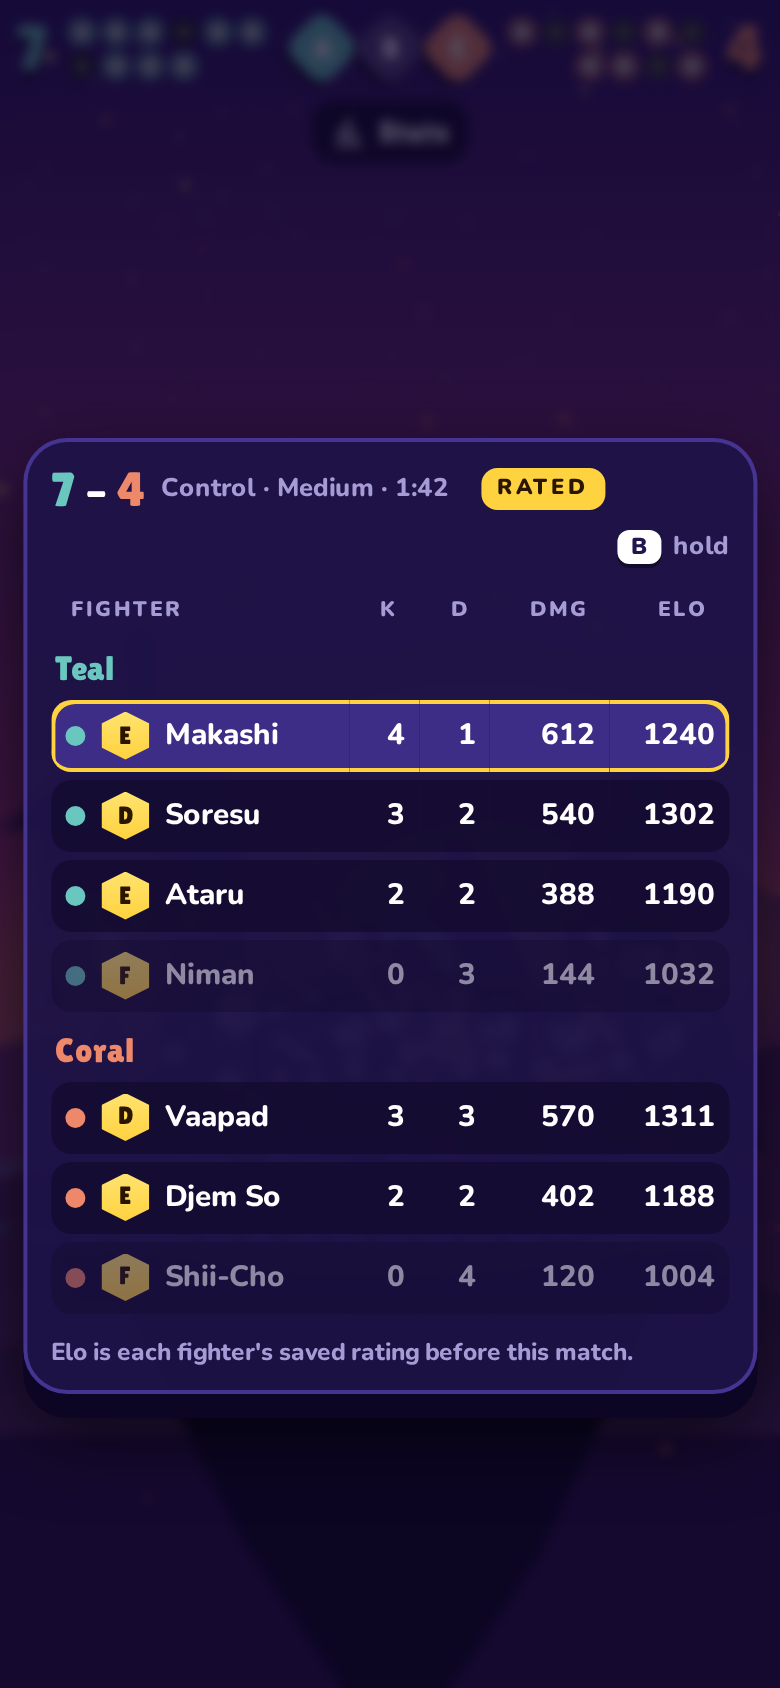
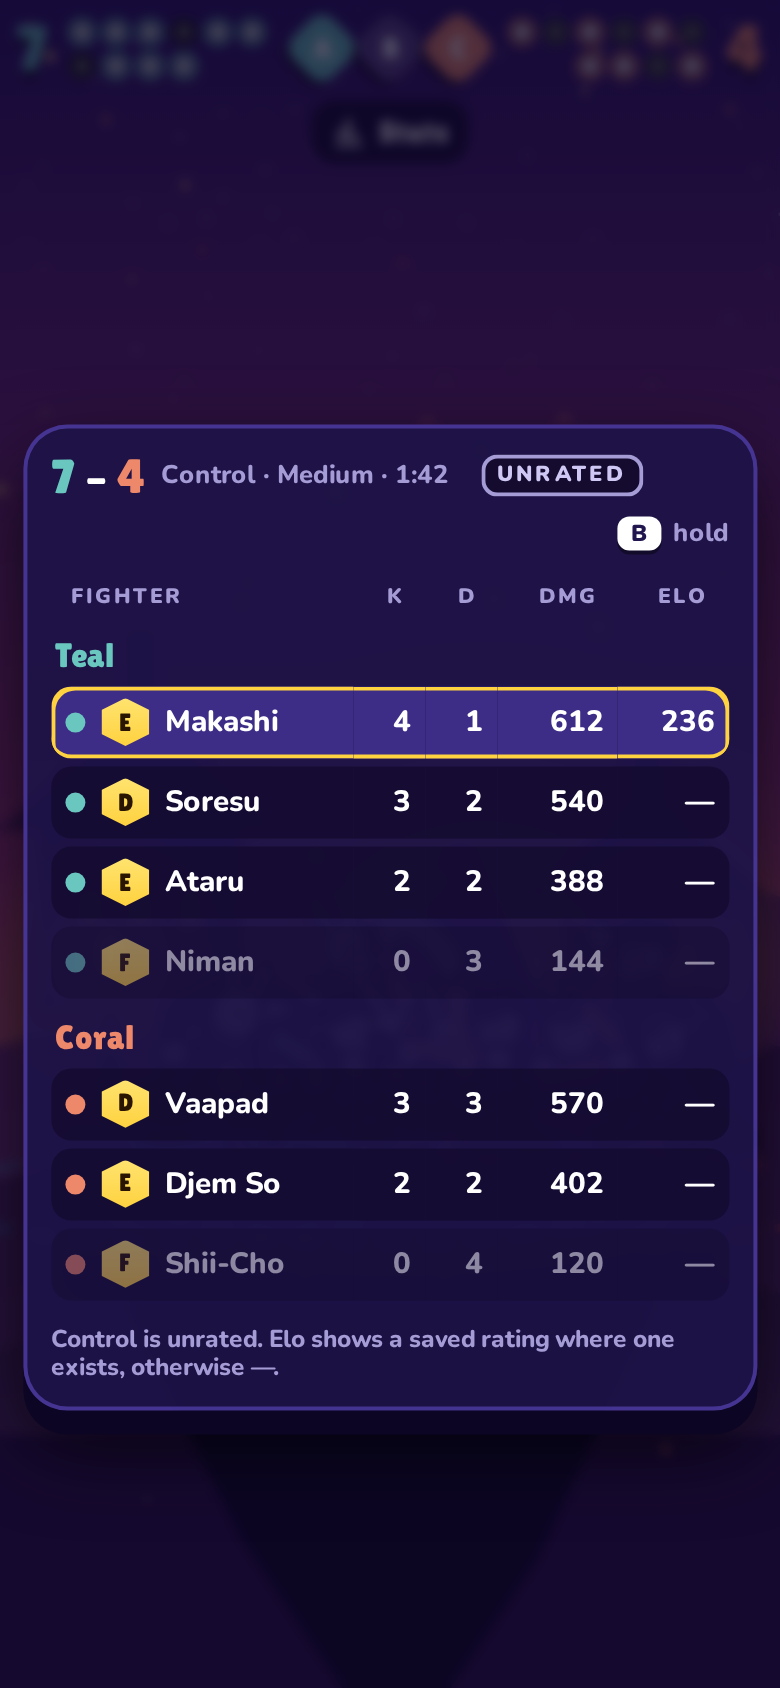
Use real ratings and recorded stats in scoreboard and results
Control shown as unrated, Elo on the 100 per rank scale or a dash,
kills and deaths apart, parries kept, saber hits and swings as two
numbers instead of an accuracy percent. Duel tag reads Rated.

diff --git a/docs/v5-look/screens.html b/docs/v5-look/screens.html
@@ -233,6 +233,7 @@ table.sb{width:100%;border-collapse:separate;border-spacing:0 4px;font-size:.92r
 #results .unr,#results .r-unr{display:none}
 #results.unrated .unr{display:inline-block}#results.unrated .r-unr{display:block}
 #results.unrated .rated,#results.unrated .r-rated{display:none}
+.hits{display:flex;gap:18px;justify-content:center;margin-top:10px;font:800 .85rem/1 var(--ui);color:#a59cd6}.hits b{font:400 1.1rem/1 var(--display);color:#fff;margin-left:4px}
 .savedtag{font:900 .78rem/1 var(--ui);color:var(--mint)}
 .bfoot{margin-top:8px;font-size:.76rem}.bhead .sc{white-space:nowrap}@media (max-width:600px){.bhead{flex-wrap:wrap;gap:8px}.bhead .muted{font-size:.8rem}}
 .statsbtn{position:absolute;top:84px;left:50%;transform:translateX(-50%);display:flex;align-items:center;gap:6px;border:0;border-radius:12px;padding:7px 10px;background:#0c0624cc;color:#fff;font:400 .95rem/1 var(--display);pointer-events:auto}
@@ -251,7 +252,7 @@ table.sb{width:100%;border-collapse:separate;border-spacing:0 4px;font-size:.92r
     <a class="pcard" href="#stats" title="Your stats">
       <span class="avatar"></span>
       <div class="who"><b>Makashi</b><span>Woman · Djem So</span></div>
-      <div class="pstats"><div><span class="rk sm">E</span></div><div><b>1258</b><span>ELO</span></div><div><b>1.42</b><span>K/D</span></div><div><b>58%</b><span>WIN</span></div></div>
+      <div class="pstats"><div><span class="rk sm">E</span></div><div><b>245</b><span>ELO</span></div><div><b>1.42</b><span>K/D</span></div><div><b>58%</b><span>WIN</span></div></div>
     </a>
   </div>
   <div class="hub">
@@ -274,11 +275,11 @@ table.sb{width:100%;border-collapse:separate;border-spacing:0 4px;font-size:.92r
 <!-- MODE SELECT -->
 <section class="scr" id="modes" hidden>
   <div class="top"><button class="back"><svg viewBox="0 0 24 24"><path d="M15 4 7 12l8 8" stroke="#fff" stroke-width="3.5" fill="none" stroke-linecap="round" stroke-linejoin="round"/></svg></button><div class="title">Play</div>
-    <a class="pcard"><span class="avatar"></span><div class="pstats"><div><span class="rk sm">E</span></div><div><b>1258</b><span>ELO</span></div><div><b>1.42</b><span>K/D</span></div></div></a></div>
+    <a class="pcard"><span class="avatar"></span><div class="pstats"><div><span class="rk sm">E</span></div><div><b>245</b><span>ELO</span></div><div><b>1.42</b><span>K/D</span></div></div></a></div>
   <div class="modes">
     <div class="mlist">
-      <div class="mrow"><canvas data-art="duel"></canvas><div><b>Duel</b><span>1v1 · Ranked</span></div><em>1258</em></div>
-      <div class="mrow on"><canvas data-art="squad"></canvas><div><b>Squads</b><span>Team · up to 15v15</span></div><em>1231</em></div>
+      <div class="mrow"><canvas data-art="duel"></canvas><div><b>Duel</b><span>1v1 · Rated</span></div><em>245</em></div>
+      <div class="mrow on"><canvas data-art="squad"></canvas><div><b>Squads</b><span>Team · up to 15v15</span></div><em></em></div>
       <div class="phoneopts glass">
         <div><p class="lab">RULES</p><div class="chips"><button class="chip">Elimination</button><button class="chip on">Control</button><button class="chip">Relic</button></div></div>
         <div><p class="lab">MAP</p><div class="chips"><button class="chip">Small</button><button class="chip on">Medium</button><button class="chip">Large</button></div></div>
@@ -295,7 +296,7 @@ table.sb{width:100%;border-collapse:separate;border-spacing:0 4px;font-size:.92r
         <div><p class="lab">PLAY AS</p><div class="chips"><button class="chip on">Fighter</button><button class="chip">Commander</button><button class="chip">Watch</button></div></div>
         <div><p class="lab">ROUND</p><div class="chips"><button class="chip">45</button><button class="chip on">90</button><button class="chip">150</button></div></div>
       </div>
-      <div class="mgo"><button class="btn gold">▶ Play</button><button class="btn ghost">Loadout</button><div class="rec"><b>41W · 29L</b><br>K/D 1.31 in Squads</div></div>
+      <div class="mgo"><button class="btn gold">▶ Play</button><button class="btn ghost">Loadout</button><div class="rec"><b>41W · 29L</b><br>in Squads</div></div>
     </div>
   </div>
   <div class="phonego"><button class="btn ghost">Loadout</button><button class="btn">▶ Play</button></div>
@@ -363,20 +364,20 @@ table.sb{width:100%;border-collapse:separate;border-spacing:0 4px;font-size:.92r
 <section id="board" hidden>
   <div class="dim"></div>
   <div class="board glass">
-    <div class="bhead"><div class="sc"><span class="b">7</span> – <span class="r">4</span></div><span class="muted">Control · Medium · 1:42</span><span class="rated">RATED</span><span class="hint" style="margin-left:auto"><kbd>B</kbd> hold</span></div>
+    <div class="bhead"><div class="sc"><span class="b">7</span> – <span class="r">4</span></div><span class="muted">Control · Medium · 1:42</span><span class="unr" style="display:inline-block">UNRATED</span><span class="hint" style="margin-left:auto"><kbd>B</kbd> hold</span></div>
     <table class="sb">
       <tr><th>FIGHTER</th><th>K</th><th>D</th><th>DMG</th><th>ELO</th></tr>
       <tr class="team b"><td colspan="5">Teal</td></tr>
-      <tr class="me"><td><span class="dot b"></span><span class="rk sm">E</span>Makashi</td><td>4</td><td>1</td><td>612</td><td>1240</td></tr>
-      <tr><td><span class="dot b"></span><span class="rk sm">D</span>Soresu</td><td>3</td><td>2</td><td>540</td><td>1302</td></tr>
-      <tr><td><span class="dot b"></span><span class="rk sm">E</span>Ataru</td><td>2</td><td>2</td><td>388</td><td>1190</td></tr>
-      <tr class="ko"><td><span class="dot b"></span><span class="rk sm">F</span>Niman</td><td>0</td><td>3</td><td>144</td><td>1032</td></tr>
+      <tr class="me"><td><span class="dot b"></span><span class="rk sm">E</span>Makashi</td><td>4</td><td>1</td><td>612</td><td>236</td></tr>
+      <tr><td><span class="dot b"></span><span class="rk sm">D</span>Soresu</td><td>3</td><td>2</td><td>540</td><td>—</td></tr>
+      <tr><td><span class="dot b"></span><span class="rk sm">E</span>Ataru</td><td>2</td><td>2</td><td>388</td><td>—</td></tr>
+      <tr class="ko"><td><span class="dot b"></span><span class="rk sm">F</span>Niman</td><td>0</td><td>3</td><td>144</td><td>—</td></tr>
       <tr class="team r"><td colspan="5">Coral</td></tr>
-      <tr><td><span class="dot r"></span><span class="rk sm">D</span>Vaapad</td><td>3</td><td>3</td><td>570</td><td>1311</td></tr>
-      <tr><td><span class="dot r"></span><span class="rk sm">E</span>Djem So</td><td>2</td><td>2</td><td>402</td><td>1188</td></tr>
-      <tr class="ko"><td><span class="dot r"></span><span class="rk sm">F</span>Shii-Cho</td><td>0</td><td>4</td><td>120</td><td>1004</td></tr>
+      <tr><td><span class="dot r"></span><span class="rk sm">D</span>Vaapad</td><td>3</td><td>3</td><td>570</td><td>—</td></tr>
+      <tr><td><span class="dot r"></span><span class="rk sm">E</span>Djem So</td><td>2</td><td>2</td><td>402</td><td>—</td></tr>
+      <tr class="ko"><td><span class="dot r"></span><span class="rk sm">F</span>Shii-Cho</td><td>0</td><td>4</td><td>120</td><td>—</td></tr>
     </table>
-    <div class="bfoot muted">Elo is each fighter's saved rating before this match.</div>
+    <div class="bfoot muted">Control is unrated. Elo shows a saved rating where one exists, otherwise —.</div>
   </div>
 </section>
 
@@ -389,18 +390,19 @@ table.sb{width:100%;border-collapse:separate;border-spacing:0 4px;font-size:.92r
       <h1 class="win">VICTORY</h1>
       <div class="rsub">Duel · 2–1 rounds · 2:41 <span class="rated">RATED</span><span class="unr">UNRATED</span></div>
       <div class="tiles">
-        <div class="tile"><b>3/1</b><span>K/D</span></div>
+        <div class="tile"><b>3</b><span>KILLS</span></div>
+        <div class="tile"><b>1</b><span>DEATHS</span></div>
         <div class="tile"><b>412</b><span>DAMAGE</span></div>
-        <div class="tile best"><b>64%</b><span>ACCURACY</span></div>
-        <div class="tile"><b>2–1</b><span>ROUNDS</span></div>
+        <div class="tile best"><b>7</b><span>PARRIES</span></div>
       </div>
+      <div class="hits"><span>Saber hits <b>14</b></span><span>Swings <b>22</b></span></div>
       <div class="elo glass r-rated">
-        <div class="elorow"><span class="rk">E</span><span class="num">1258</span><span class="delta">+18</span><span class="savedtag">✓ saved</span><span class="muted" style="margin-left:auto;font-size:.85rem">vs Djem So · 1188</span></div>
-        <div class="ebar" style="--a:52%;--g:9%"><i></i><i></i></div>
-        <div class="elofoot"><span>E</span><span>42 to D</span></div>
+        <div class="elorow"><span class="rk">E</span><span class="num">245</span><span class="delta">+9</span><span class="savedtag">✓ saved</span><span class="muted" style="margin-left:auto;font-size:.85rem">vs Djem So · 228</span></div>
+        <div class="ebar" style="--a:36%;--g:9%"><i></i><i></i></div>
+        <div class="elofoot"><span>E</span><span>55 to D</span></div>
       </div>
       <div class="elo glass r-unr">
-        <div class="elorow"><span class="rk">E</span><span class="num">1240</span><span class="muted" style="font-size:.95rem">Unrated bout. Elo not changed.</span></div>
+        <div class="elorow"><span class="rk">E</span><span class="num">236</span><span class="muted" style="font-size:.95rem">Unrated bout. Elo not changed.</span></div>
       </div>
       <div class="rbtns"><button class="btn gold">Continue</button><button class="btn ghost">Stats</button><span class="hint" style="margin-left:auto"><kbd>Space</kbd> hold to skip</span></div>
     </div>
@@ -417,7 +419,7 @@ table.sb{width:100%;border-collapse:separate;border-spacing:0 4px;font-size:.92r
     <button class="btn ghost">Controls</button>
     <button class="btn ghost">Restart round</button>
     <button class="btn warn">Leave match</button>
-    <div class="pstrip"><span>Round <b>2</b></span><span>K/D <b>1/0</b></span><span>Elo <b>1240</b></span></div>
+    <div class="pstrip"><span>Round <b>2</b></span><span>K/D <b>1/0</b></span><span>Elo <b>236</b></span></div>
   </div>
 </section>
 
@@ -426,10 +428,10 @@ table.sb{width:100%;border-collapse:separate;border-spacing:0 4px;font-size:.92r
   <div class="top"><button class="back"><svg viewBox="0 0 24 24"><path d="M15 4 7 12l8 8" stroke="#fff" stroke-width="3.5" fill="none" stroke-linecap="round" stroke-linejoin="round"/></svg></button><div class="title">Stats</div>
     <div class="seg" style="margin-left:auto"><button class="on">All</button><button>Duel</button><button>Squads</button><button>Fronts</button><button>Gauntlet</button></div></div>
   <div class="stats">
-    <div class="shero glass"><span class="avatar"></span><div class="nm"><b>Makashi</b><span>212 matches · peak 1302</span></div>
+    <div class="shero glass"><span class="avatar"></span><div class="nm"><b>Makashi</b><span>212 matches · peak 262</span></div>
       <div class="big4">
         <div><span class="rk" style="min-width:40px;height:40px;font-size:1.4rem">E</span><span style="display:block;margin-top:4px">RANK</span></div>
-        <div><b>1258</b><span>ELO</span><small class="up">+46 week</small></div>
+        <div><b>245</b><span>ELO</span><small class="up">+21 week</small></div>
         <div><b>1.42</b><span>K/D</span><small class="up">+0.08</small></div>
         <div><b>58%</b><span>WIN</span><small class="muted">123–89</small></div>
       </div></div>
@@ -444,15 +446,15 @@ table.sb{width:100%;border-collapse:separate;border-spacing:0 4px;font-size:.92r
     </div>
     <div class="panel glass"><h3>Last matches<span class="muted" style="margin-left:auto;font:800 .78rem var(--ui)">K/D · ELO</span></h3>
       <div class="hist">
-        <div class="hrow"><span class="wl w">W</span><div class="md">Duel<span>Woman · Djem So · 2:41</span></div><span class="kd">3/1</span><span class="ed up">+18</span></div>
-        <div class="hrow"><span class="wl w">W</span><div class="md">Squads · Control<span>Woman · Djem So · 4:10</span></div><span class="kd">4/1</span><span class="ed up">+12</span></div>
-        <div class="hrow"><span class="wl l">L</span><div class="md">Duel<span>Femboy · Ataru · 1:58</span></div><span class="kd">1/2</span><span class="ed down">−15</span></div>
-        <div class="hrow"><span class="wl w">W</span><div class="md">Squads · Relic<span>Woman · Makashi · 3:22</span></div><span class="kd">2/0</span><span class="ed up">+9</span></div>
+        <div class="hrow"><span class="wl w">W</span><div class="md">Duel<span>Woman · Djem So · 2:41</span></div><span class="kd">3/1</span><span class="ed up">+9</span></div>
+        <div class="hrow"><span class="wl w">W</span><div class="md">Squads · Control<span>Woman · Djem So · 4:10</span></div><span class="kd">4/1</span><span class="ed muted">—</span></div>
+        <div class="hrow"><span class="wl l">L</span><div class="md">Duel<span>Femboy · Ataru · 1:58</span></div><span class="kd">1/2</span><span class="ed down">−8</span></div>
+        <div class="hrow"><span class="wl w">W</span><div class="md">Squads · Elimination<span>Woman · Makashi · 3:22</span></div><span class="kd">2/0</span><span class="ed up">+6</span></div>
         <div class="hrow"><span class="wl l">L</span><div class="md">Three Fronts<span>Rabbit · Soresu · 11:40</span></div><span class="kd">5/6</span><span class="ed muted">—</span></div>
-        <div class="hrow"><span class="wl w">W</span><div class="md">Duel<span>Woman · Djem So · 2:05</span></div><span class="kd">2/0</span><span class="ed up">+16</span></div>
+        <div class="hrow"><span class="wl w">W</span><div class="md">Duel<span>Woman · Djem So · 2:05</span></div><span class="kd">2/0</span><span class="ed up">+8</span></div>
         <div class="hrow"><span class="wl w">W</span><div class="md">Gauntlet<span>Woman · Djem So · floor 12</span></div><span class="kd">6/0</span><span class="ed muted">—</span></div>
-        <div class="hrow"><span class="wl l">L</span><div class="md">Squads · Elimination<span>Woman · Djem So · 2:50</span></div><span class="kd">1/1</span><span class="ed down">−11</span></div>
-        <div class="hrow"><span class="wl w">W</span><div class="md">Duel<span>Woman · Makashi · 3:02</span></div><span class="kd">2/1</span><span class="ed up">+14</span></div>
+        <div class="hrow"><span class="wl l">L</span><div class="md">Squads · Elimination<span>Woman · Djem So · 2:50</span></div><span class="kd">1/1</span><span class="ed down">−6</span></div>
+        <div class="hrow"><span class="wl w">W</span><div class="md">Duel<span>Woman · Makashi · 3:02</span></div><span class="kd">2/1</span><span class="ed up">+7</span></div>
       </div></div>
   </div>
 </section>
@@ -485,11 +487,11 @@ function lookArt(cv){const [c,w,h]=fit(cv);const lk=cv.dataset.look;
   const gg=c.createRadialGradient(w/2,h*.75,4,w/2,h*.7,w*.7);gg.addColorStop(0,'#3d2d86');gg.addColorStop(1,'#140b2e00');c.fillStyle=gg;c.fillRect(0,0,w,h);
   fighter(c,{x:w*.5,gy:h*.92,h:h*.72,look:lk,team:0,act:'guard',t:.2,face:1,ring:false});}
 function eloChart(el){
-  const R=rnd(17);let e=1180;const pts=[];for(let i=0;i<30;i++){e+=Math.round((R()-.42)*30);pts.push(e);}pts[29]=1258;pts[28]=1240;pts[27]=1228;
+  const R=rnd(17);let e=170;const pts=[];for(let i=0;i<30;i++){e+=Math.round((R()-.42)*12);pts.push(e);}pts[29]=245;pts[28]=236;pts[27]=230;
   const r=el.getBoundingClientRect(),w=r.width,h=r.height,pad=[8,44,22,8];
-  const lo=Math.floor((Math.min(...pts)-10)/50)*50,hi=Math.ceil((Math.max(...pts)+10)/50)*50;
+  const lo=Math.floor((Math.min(...pts)-5)/25)*25,hi=Math.ceil((Math.max(...pts)+5)/25)*25;
   const X=i=>pad[3]+i*(w-pad[1]-pad[3])/29,Y=v=>pad[0]+(hi-v)*(h-pad[0]-pad[2])/(hi-lo);
-  let grid='';for(let v=lo;v<=hi;v+=50)grid+=`<line x1="${pad[3]}" x2="${w-pad[1]}" y1="${Y(v)}" y2="${Y(v)}" stroke="#ffffff14" stroke-width="1"/><text x="${w-pad[1]+6}" y="${Y(v)+4}" fill="#a59cd6" font-size="11" font-weight="800">${v}</text>`;
+  let grid='';for(let v=lo;v<=hi;v+=25)grid+=`<line x1="${pad[3]}" x2="${w-pad[1]}" y1="${Y(v)}" y2="${Y(v)}" stroke="#ffffff14" stroke-width="1"/><text x="${w-pad[1]+6}" y="${Y(v)+4}" fill="#a59cd6" font-size="11" font-weight="800">${v}</text>`;
   const line=pts.map((v,i)=>`${X(i).toFixed(1)},${Y(v).toFixed(1)}`).join(' ');
   const area=`${X(0)},${h-pad[2]} ${line} ${X(29)},${h-pad[2]}`;
   const lx=X(29),ly=Y(pts[29]);
@@ -498,7 +500,7 @@ function eloChart(el){
   <polygon points="${area}" fill="url(#ea)"/><polyline points="${line}" fill="none" stroke="#ffd23f" stroke-width="2.5" stroke-linejoin="round" stroke-linecap="round"/>
   <line x1="${lx}" x2="${lx}" y1="${pad[0]}" y2="${h-pad[2]}" stroke="#ffffff55" stroke-dasharray="3 4"/>
   <circle cx="${lx}" cy="${ly}" r="6" fill="#ffd23f" stroke="#1d1347" stroke-width="2"/>
-  <g transform="translate(${lx-118},${ly<54?ly+12:ly-46})"><rect width="108" height="36" rx="9" fill="#140b2e" stroke="#5a47b8"/><text x="10" y="15" fill="#fff" font-size="12" font-weight="900">1258 <tspan fill="#3df5a7">+18</tspan></text><text x="10" y="29" fill="#a59cd6" font-size="10.5" font-weight="800">Win · Duel</text></g></svg>`;
+  <g transform="translate(${lx-118},${ly<54?ly+12:ly-46})"><rect width="108" height="36" rx="9" fill="#140b2e" stroke="#5a47b8"/><text x="10" y="15" fill="#fff" font-size="12" font-weight="900">245 <tspan fill="#3df5a7">+9</tspan></text><text x="10" y="29" fill="#a59cd6" font-size="10.5" font-weight="800">Win · Duel</text></g></svg>`;
 }
 
 if(view==='home'){show('home');arenaScene(g,W,H,'none');dimBg();}
